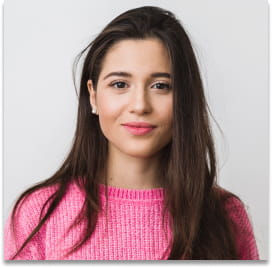
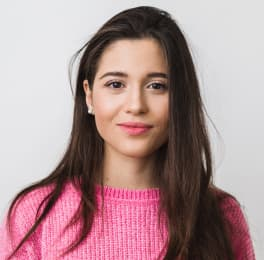
Added flexbox to main (index.html)
1) added new jpg (Camila)
2) added flexbox to the main content in index.html

diff --git a/css/styles.css b/css/styles.css
@@ -83,6 +83,8 @@ img{
     letter-spacing: 0.02em;
     text-transform: capitalize;
     color: var(--secondary-text-color);
+
+    margin-bottom: 72px;
 }
 
 .subtitle{
@@ -91,6 +93,7 @@ img{
     line-height: 1.2;
     letter-spacing: 0.02em;
     color: var(--secondary-text-color);
+    margin-bottom: 8px;
 }
 
 .text{
@@ -122,6 +125,11 @@ img{
     clip-path: inset(100%);
     clip: rect(0 0 0 0);
     overflow: hidden;
+}
+
+.team-member{
+    padding-top: 32px;
+    padding-bottom: 32px;
 }
     
     /* =================== /COMPONENTS ======================== */
@@ -212,9 +220,16 @@ body{
 
  .hero{
     background-color: var(--hero-bgc);
+    padding-top: 188px;
+    padding-bottom: 188px;
  }
 
  .hero-title{
+    width: 496px;
+    margin-right: auto;
+    margin-left: auto;
+    margin-bottom: 48px;
+    
     font-size: 56px;
     line-height: 1.07;
     text-align: center;
@@ -224,11 +239,19 @@ body{
  }
 
  .hero-btn{
+    display: block;
+    margin-left: auto;
+    margin-right: auto;
+    padding: 16px 32px;
+    border-radius: 4px;
+    box-shadow: 0px 4px 4px rgba(0, 0, 0, 0.15);
+
     font-family: inherit;
     font-weight: 500;
     font-size: 16px;
     line-height: 1.5;
     letter-spacing: 0.04em;
+    
     color: var(--secondary-white-color);
     background-color: var(--primary-accent-color);
     cursor: pointer;
@@ -243,11 +266,41 @@ body{
 
 
     /* ==================== Studio features ================ */
+ .features{
+    padding-top: 120px;
+    padding-bottom: 120px;
+ }
 
+ .features-list{
+    display: flex;
+    flex-wrap: wrap;
+    gap: 24px;
+
+ }
+
+ .features-item{
+    display: block;
+    width: calc((100% - 72px)/4);
+ }
     /* =================== /Studio features ================ */
 
 
     /* =================== Work examples =================== */
+
+ .examples{
+    padding-bottom: 120px;
+ }
+ 
+ .examples-list{
+    display: flex;
+    flex-wrap: wrap;
+    gap: 24px;
+ }
+
+
+ .examples-item{
+    width: calc((100% - 48px)/3);
+ }
 
     /* ================== /Work examples =================== */
 
@@ -256,10 +309,23 @@ body{
 
 .team{
     background-color: var(--secondary-bgc);
+    padding-bottom: 120px;
+    padding-top: 120px;
+}
+
+.team-list{
+    display: flex;
+    flex-wrap: wrap;
+    gap: 24px
 }
 
 .team-item{
+    width: calc((100% - 72px)/4);
     background-color: var(--primary-bgc);
+    box-shadow: 0px 1px 6px rgba(46, 47, 66, 0.08), 
+    0px 1px 1px rgba(46, 47, 66, 0.16), 
+    0px 2px 1px rgba(46, 47, 66, 0.08);
+    border-radius: 0px 0px 4px 4px;
 }
 
 .team-title{

diff --git a/index.html b/index.html
@@ -141,8 +141,10 @@
                 alt="Mark Guerrero"
                 width="264"
               />
-              <h3 class="team-title subtitle">Mark Guerrero</h3>
-              <p class="team-text text">Product Designer</p>
+              <div class="team-member">
+                <h3 class="team-title subtitle">Mark Guerrero</h3>
+                <p class="team-text text">Product Designer</p>
+              </div>
             </li>
             <li class="team-item">
               <img
@@ -151,8 +153,10 @@
                 alt="Tom Ford"
                 width="264"
               />
-              <h3 class="team-title subtitle">Tom Ford</h3>
-              <p class="team-text text">Frontend Developer</p>
+              <div class="team-member">
+                <h3 class="team-title subtitle">Tom Ford</h3>
+                <p class="team-text text">Frontend Developer</p>
+              </div>
             </li>
             <li class="team-item">
               <img
@@ -161,8 +165,10 @@
                 alt="Camila Garcia"
                 width="264"
               />
-              <h3 class="team-title subtitle">Camila Garcia</h3>
-              <p class="team-text text">Marketing</p>
+              <div class="team-member">
+                <h3 class="team-title subtitle">Camila Garcia</h3>
+                <p class="team-text text">Marketing</p>
+              </div>
             </li>
             <li class="team-item">
               <img
@@ -171,8 +177,10 @@
                 alt="Daniel Wilson"
                 width="264"
               />
-              <h3 class="team-title subtitle">Daniel Wilson</h3>
-              <p class="team-text text">UI Designer</p>
+              <div class="team-member">
+                <h3 class="team-title subtitle">Daniel Wilson</h3>
+                <p class="team-text text">UI Designer</p>
+              </div>
             </li>
           </ul>
         </div>
